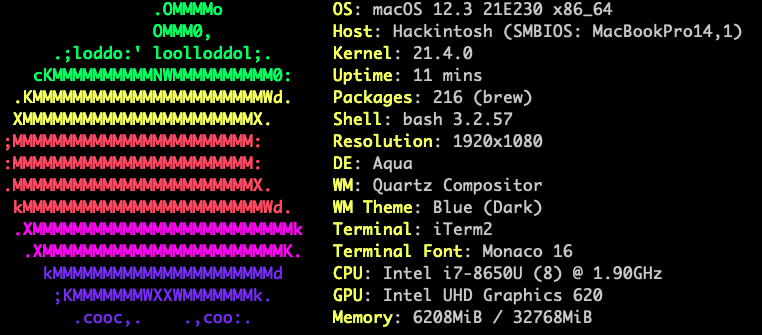
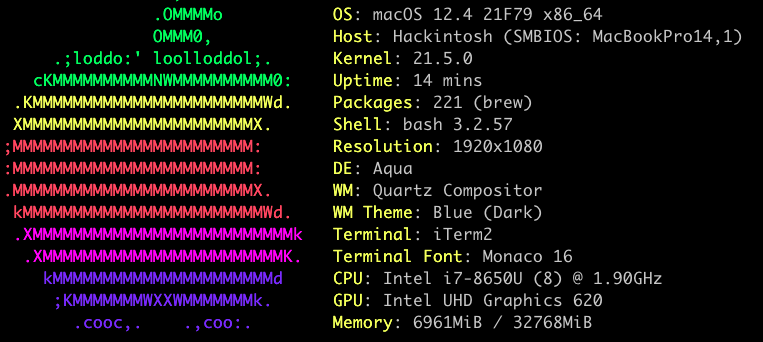
macOS 12.4

diff --git a/README.md b/README.md
@@ -14,7 +14,7 @@ Working (compared to other setup I've found):
 
 Tested with:
 * T480 i7-8650U FHD, 32GB RAM, NVME, nvidia MX150 deactivated in DSDT/SSDT
-* macOS 12.3 (21E230)
+* macOS 12.4 (21F79)
 * Wireless DW1560, NGFF Broadcom BCM4352 802.11ac with PCID [14e4:43b1]
 * Wireless DW1820a : use config.DW1820a.plist
 * Wireless BCM94360NG : use config.BCM94360NG.plist (reported by @opatotto #16)
